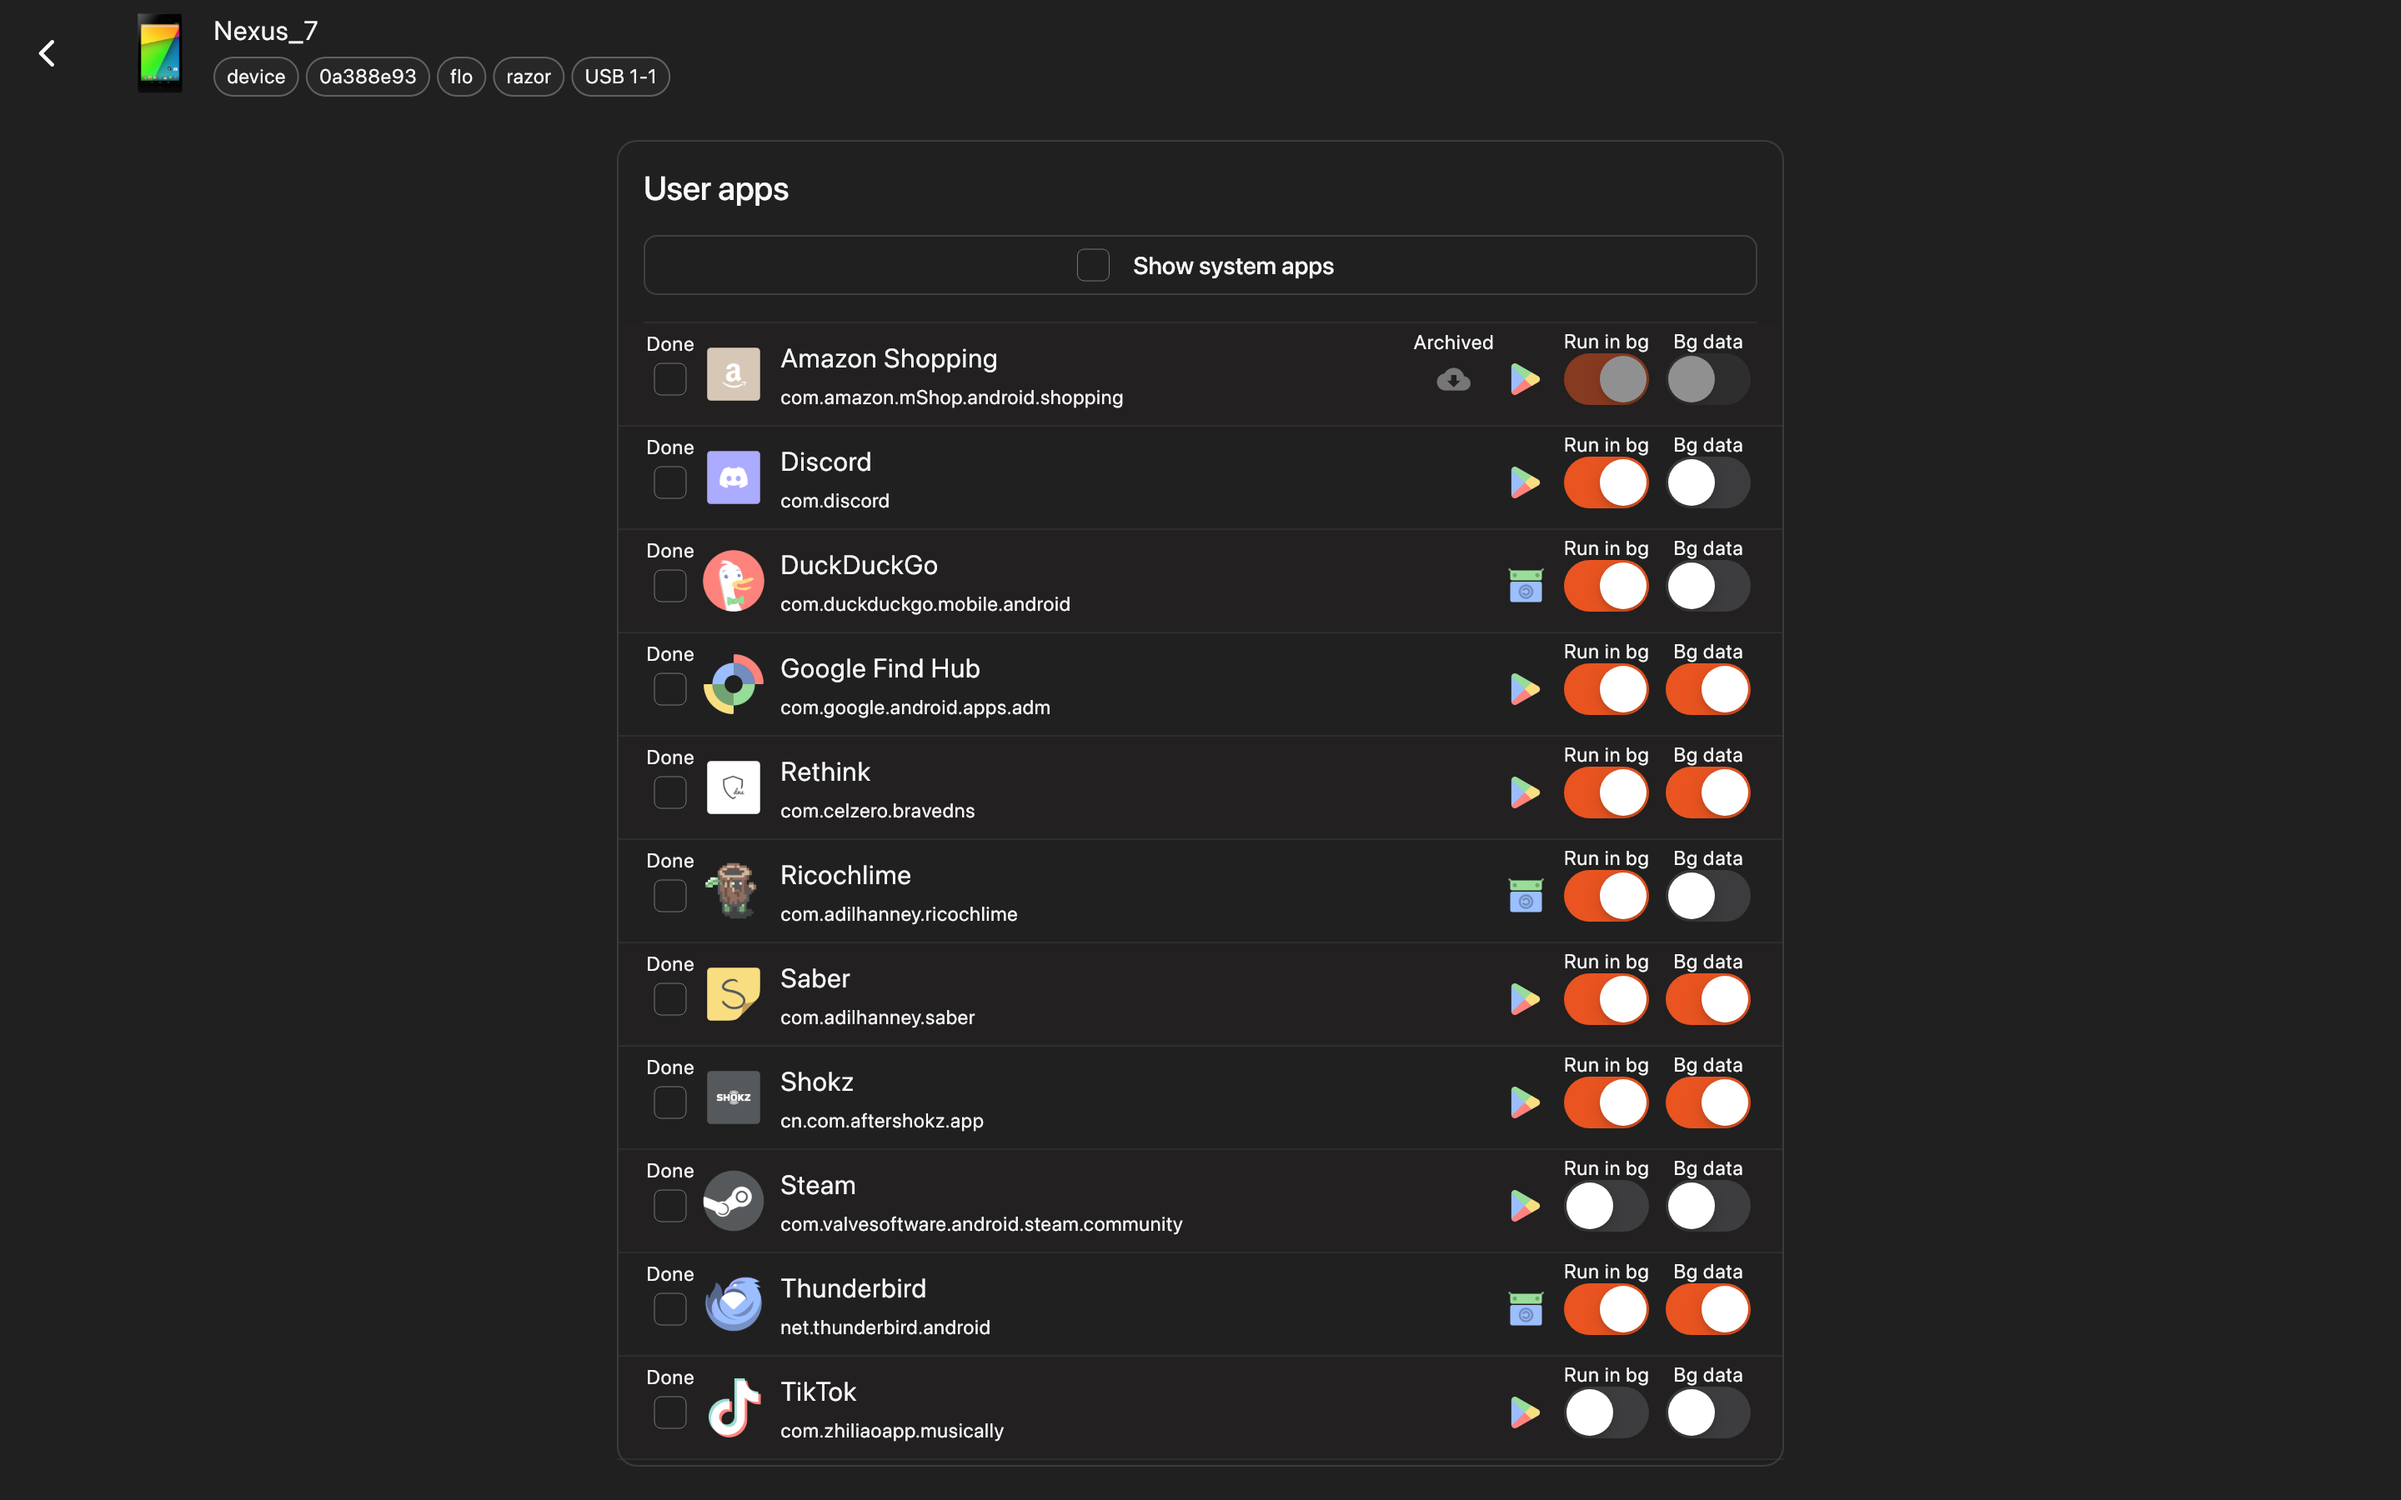
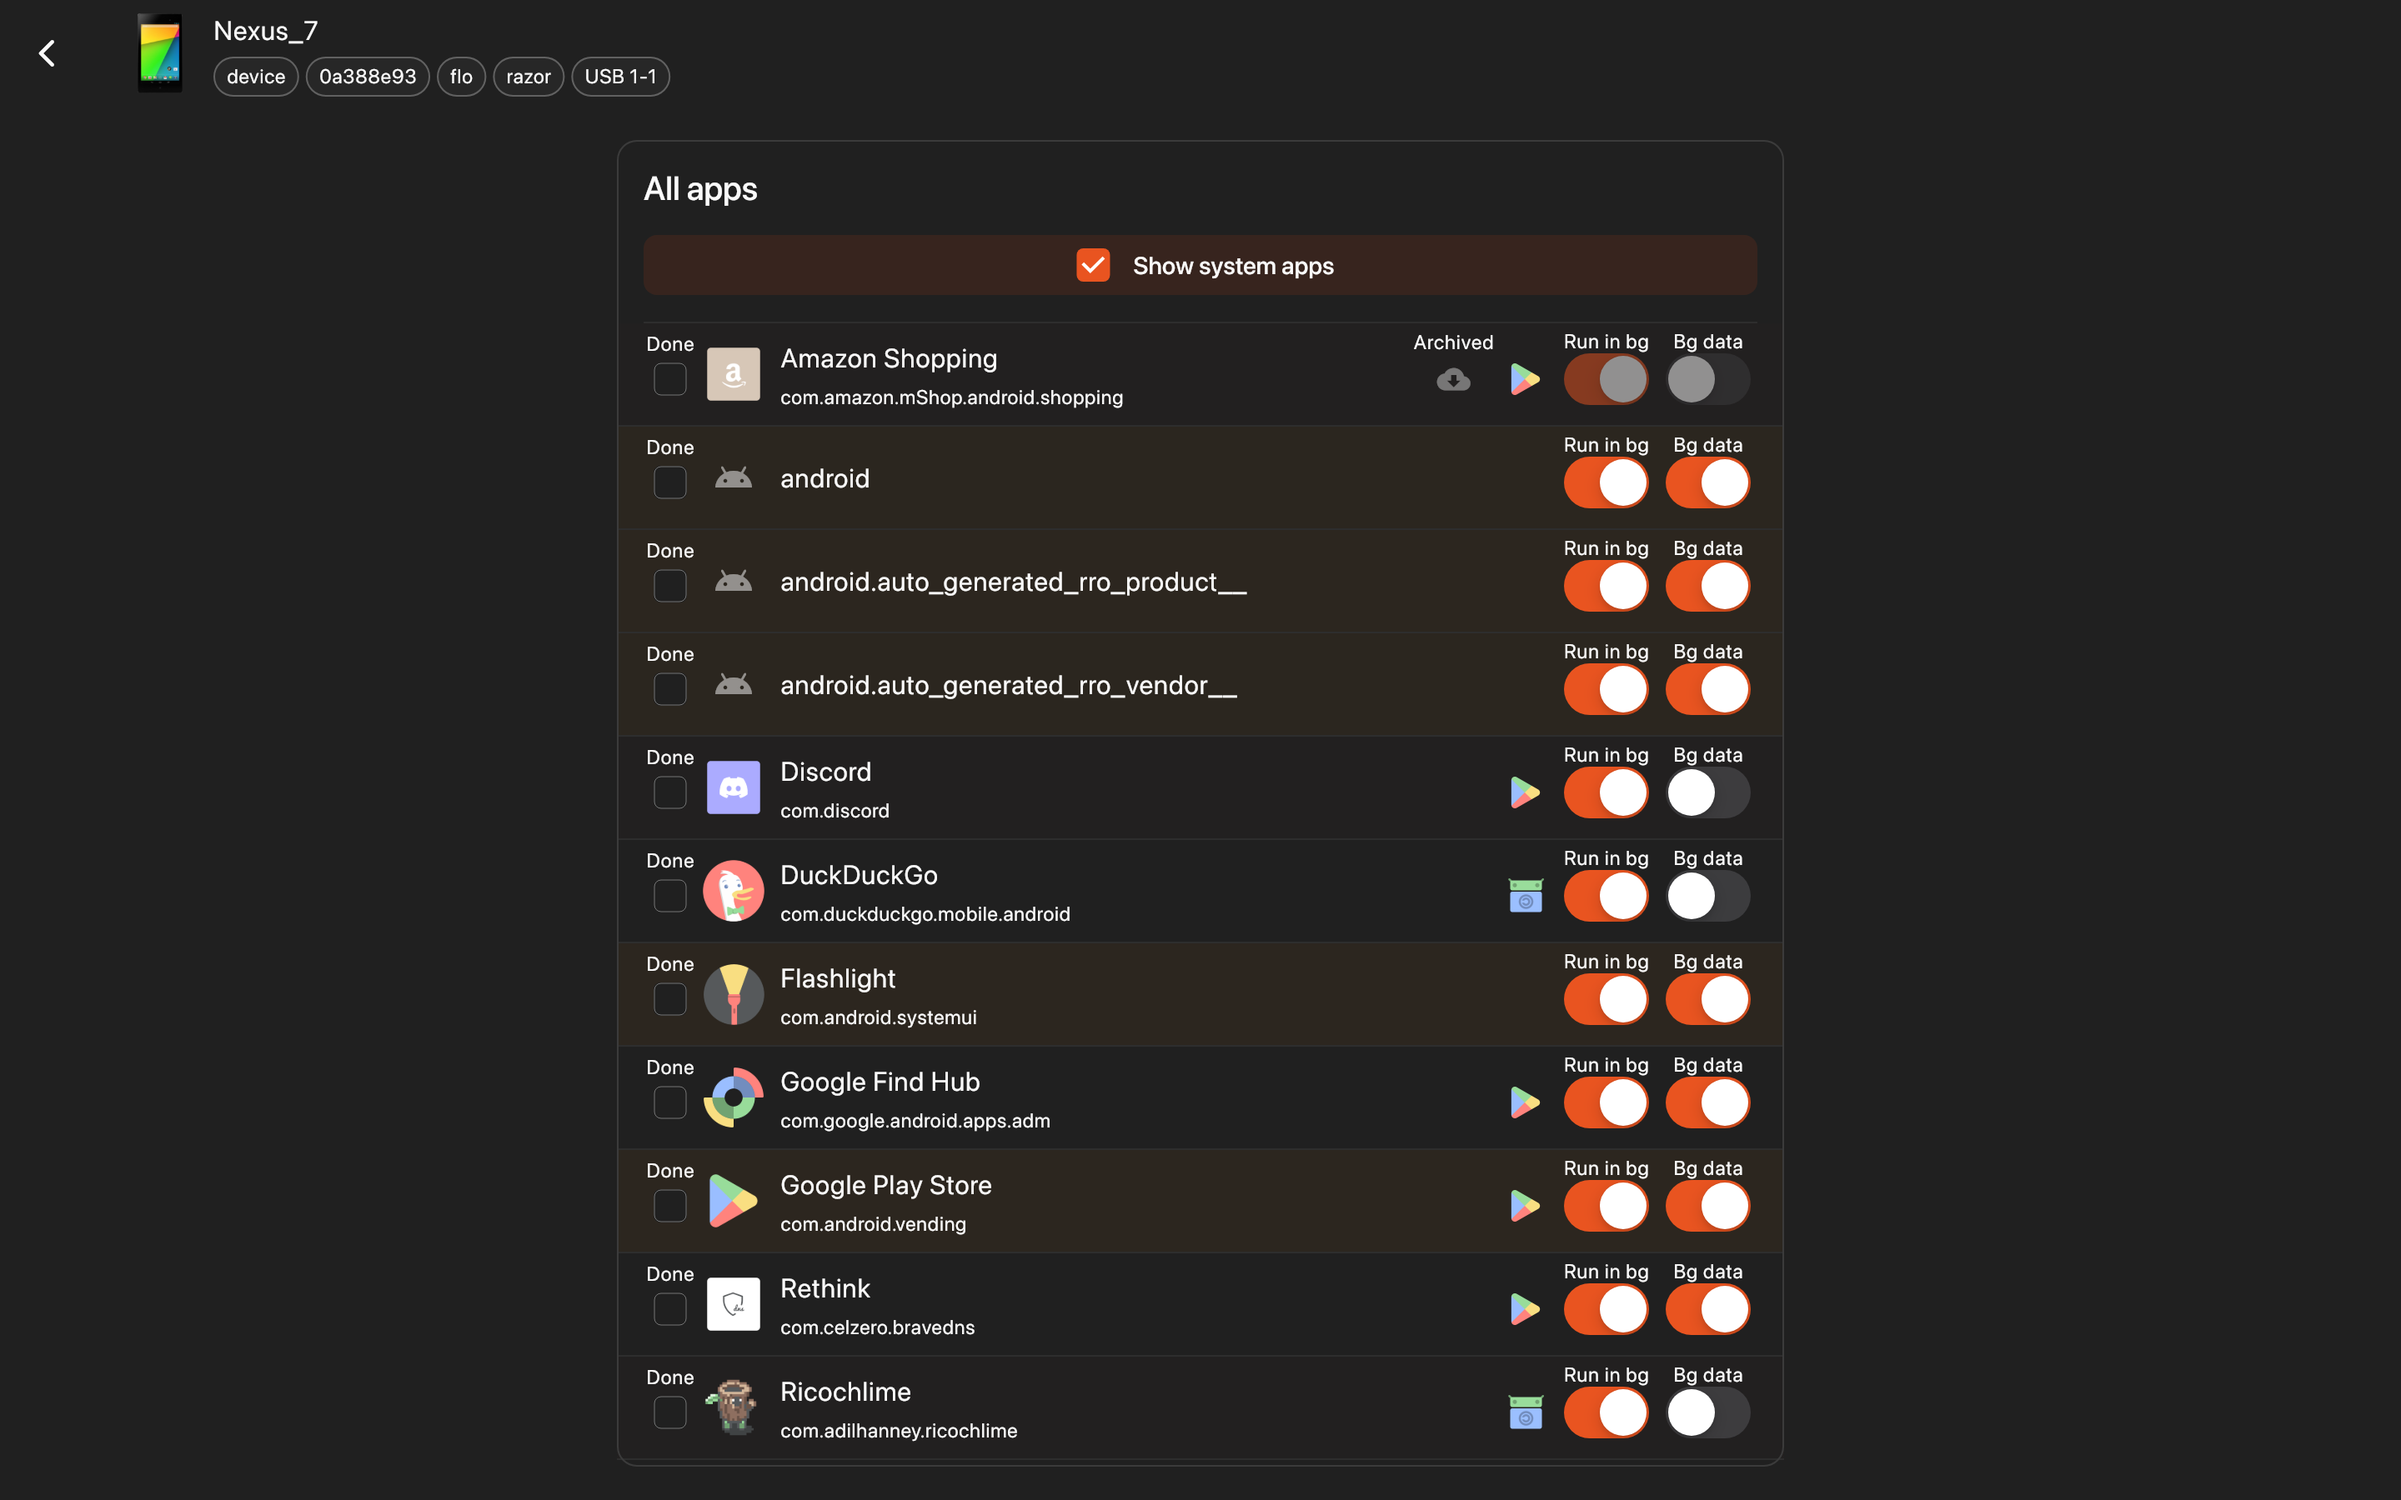
test: fix showSystemApps test

diff --git a/test/golden_screenshot_test.dart b/test/golden_screenshot_test.dart
@@ -9,6 +9,7 @@ import 'package:no_more_background/compute/test_adb_impl.dart';
 import 'package:no_more_background/data/adb_device.dart';
 import 'package:no_more_background/data/delta_icons.dart';
 import 'package:no_more_background/data/lawn_icons.dart';
+import 'package:no_more_background/data/stows.dart';
 import 'package:no_more_background/data/workers.dart';
 import 'package:no_more_background/main.dart';
 import 'package:no_more_background/pages/apps_page.dart';
@@ -29,6 +30,7 @@ void main() {
     setUp(() async {
       Adb.impl = TestAdbImpl();
       Workers.debugDisablePolling = true;
+      stows.showSystemApps.value = false;
     });
     tearDown(() {
       workers.reset();
@@ -82,6 +84,7 @@ void main() {
         final state = tester.state<AppsPageState>(find.byType(AppsPage));
         await state.restrictedDataAppUids;
         await tester.pump();
+        expect(stows.showSystemApps.value, isTrue);
         expect(
           state.apps,
           isNotEmpty,
